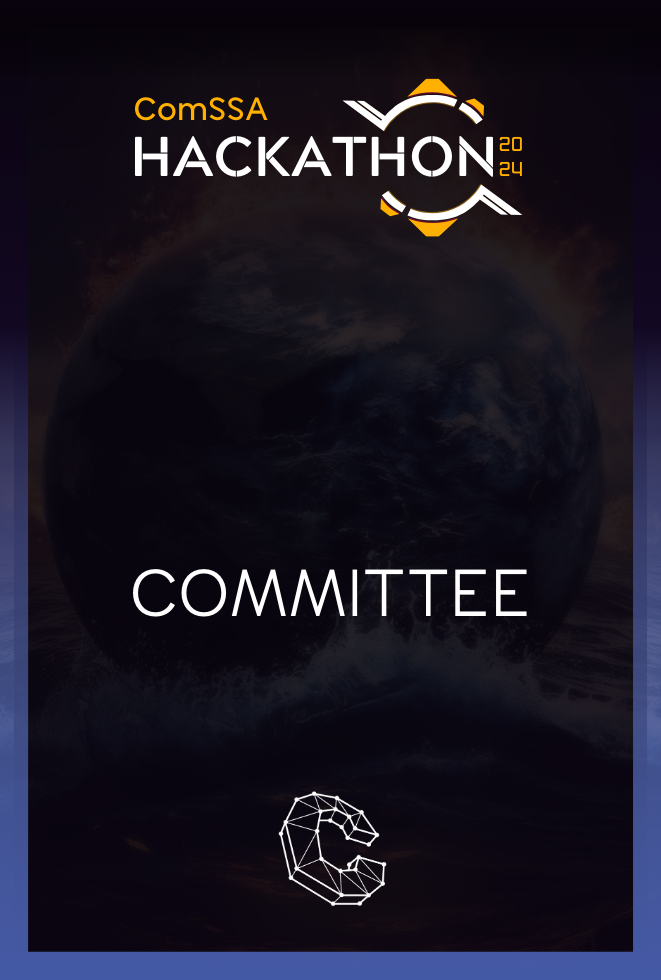
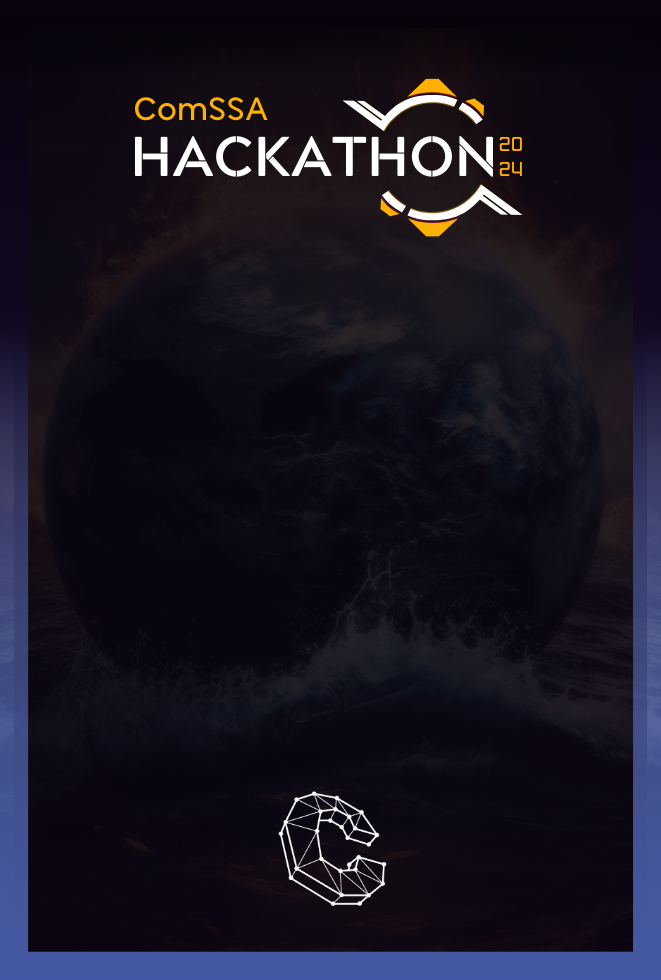
Updated committee lanyards

Changed region(s): [[0.1815, 0.5816, 0.7867, 0.6429]]

diff --git a/index.js b/index.js
@@ -5,10 +5,11 @@ const QRCode = require('qrcode');
 require('./assets/Wavehaus-66Book.js');
 require('./assets/Wavehaus-128Bold.js');
 
-const TWO_SIDED = false;
-const CUR_DESIGN = 'mentors';
+const TWO_SIDED = true;
+const CUR_DESIGN = 'committee';
 
 const colors = {
+    white: '#FFFFFF',
     primary: '#FFB001',
     background: '#2F1244'
 }
@@ -76,6 +77,20 @@ const DESIGNS = {
                     size: 20,
                     y: 43
                 },
+                {
+                    key: 'role',
+                    font: 'Wavehaus-66Book',
+                    color: colors.white,
+                    size: 16,
+                    y: 52
+                },
+                {
+                    key: 'coordinator',
+                    font: 'Wavehaus-66Book',
+                    color: colors.white,
+                    size: 16,
+                    y: 58.5
+                }
             ],
         }
     },
@@ -143,7 +158,7 @@ const marginY = (pageHeight - id.height * idPerCol) / (idPerCol + 1);
 function main(numProcessed) {
 
     // converting into single array for easier iteration
-    const data = [];
+    let data = [];
     if (CUR_DESIGN === 'teams') {
         for (let i = 0; i < input.teams.length; i++) {
             const team = input.teams[i];
@@ -156,23 +171,8 @@ function main(numProcessed) {
                 });
             }
         }
-    } else if (CUR_DESIGN === 'committee') {
-        for (let i = 0; i < input.members.length; i++) {
-            const member = input.members[i];
-            data.push({
-                first_name: member.first_name,
-                last_name: member.last_name
-            });
-        }
-    } else if (CUR_DESIGN === 'mentors') {
-        for (let i = 0; i < input.members.length; i++) {
-            const member = input.members[i];
-            data.push({
-                first_name: member.first_name,
-                last_name: member.last_name
-            });
-            // TBA images
-        }
+    } else {
+        data = input.members;
     }
 
     for (let i = 0; i < numProcessed; i++) {
@@ -189,7 +189,7 @@ function main(numProcessed) {
         addIDCard(data[i], x, y);
 
         const isLastItem = i + 1 === numProcessed;
-        const needNewPage = i + 1 < numProcessed && (i + 1) % (idPerRow * idPerCol) === 0;
+        const needNewPage = i + 1 < numProcessed && (i + 1) % (itemsPerPage) === 0;
 
         if (needNewPage || isLastItem && TWO_SIDED) {
             doc.addPage();

diff --git a/data.js b/data.js
@@ -69,7 +69,9 @@ async function getCommitteeData() {
 
     const data = contacts.data.map(contact => ({
         first_name: contact.first_name,
-        last_name: contact.last_name
+        last_name: contact.last_name,
+        role: "", // DEFAULT, for now editing resulting file
+        coordinator: "" // OVERFLOW LINE
     }));
 
     fs.writeFileSync('data/committee.json', JSON.stringify({members: data}));
